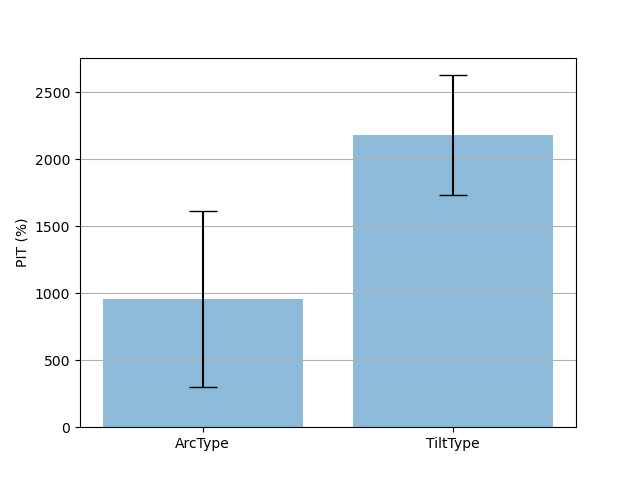
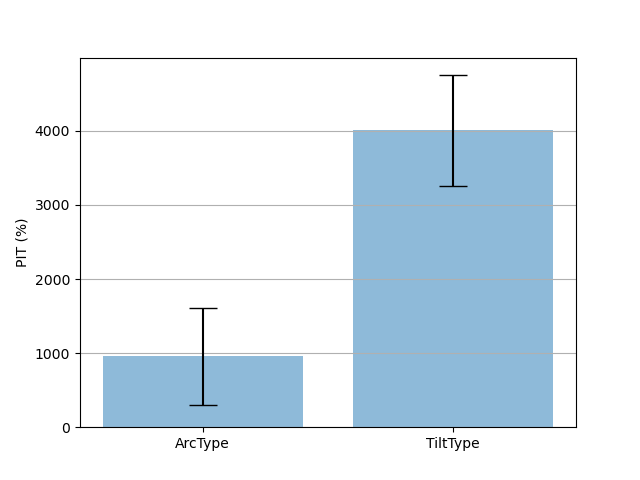
split wpm, fixed travel values

diff --git a/Assets/Scripts/Utils/metrics.py b/Assets/Scripts/Utils/metrics.py
@@ -9,11 +9,62 @@ import matplotlib.pyplot as plt
 import numpy as np
 
 
+def use(fn, *args, **kwargs):
+    def access(obj):
+        return getattr(obj, fn)(*args, **kwargs)
+
+    return access
+
+
+def truncate(f, digits=5):
+    return trunc(f * 10 ** digits) / 10 ** digits
+
+
+# https://stackabuse.com/levenshtein-distance-and-text-similarity-in-python/
+def levenshtein(seq1, seq2):
+    size_x = len(seq1) + 1
+    size_y = len(seq2) + 1
+    matrix = np.zeros((size_x, size_y))
+    for x in range(size_x):
+        matrix[x, 0] = x
+    for y in range(size_y):
+        matrix[0, y] = y
+
+    for x in range(1, size_x):
+        for y in range(1, size_y):
+            if seq1[x - 1] == seq2[y - 1]:
+                matrix[x, y] = min(
+                    matrix[x - 1, y] + 1,
+                    matrix[x - 1, y - 1],
+                    matrix[x, y - 1] + 1
+                )
+            else:
+                matrix[x, y] = min(
+                    matrix[x - 1, y] + 1,
+                    matrix[x - 1, y - 1] + 1,
+                    matrix[x, y - 1] + 1
+                )
+
+    return matrix[size_x - 1, size_y - 1]
+
+
+def error_rate(P, T):
+    return 100 * levenshtein(P, T) / max(len(P), len(T))
+
+
 class Layouts(Enum):
     SliderOnly = "SliderOnly"
     ArcType = "ArcType"
     TiltType = "TiltType"
     Raycast = "Raycast"
+
+
+def layout_name(l):
+    if isinstance(l, str):
+        return {Layouts.SliderOnly.value: 'DO NOT USE', Layouts.ArcType.value: Layouts.ArcType.value,
+                Layouts.TiltType.value: Layouts.TiltType.value, Layouts.Raycast.value: 'Controller Pointing'}[l]
+    return {Layouts.SliderOnly: 'DO NOT USE', Layouts.ArcType: Layouts.ArcType.value,
+                Layouts.TiltType: Layouts.TiltType.value, Layouts.Raycast: 'Controller Pointing'}[l]
 
 
 trial_files = {0: "trial-2020-07-16_02-36-27.yaml", 1: "trial-2020-07-16_02-46-22.yaml",
@@ -74,8 +125,8 @@ def merge_trials(*datas):
 
 
 arctype_x_range_size = 145 - 45
-tilttype_x_range_size = 12 - 5
-tilttype_z_range_size = 120 - 30
+tilttype_x_range_size = 30 - 5
+tilttype_z_range_size = 30 - -10
 
 
 def tilttype_pos(c: str):
@@ -94,7 +145,7 @@ def raycast_pos(c: str):
 
 
 def raycast_displacement(p, c, signed=False):
-    return ((a - b if signed else abs(a - b))for a, b in zip(raycast_pos(p), raycast_pos(c)))
+    return ((a - b if signed else abs(a - b)) for a, b in zip(raycast_pos(p), raycast_pos(c)))
 
 
 def arctype_bin(c: str):
@@ -236,27 +287,26 @@ def make_2d_point_cloud(data, axes):
 
 
 def make_wpm_bars(data):
-    layout_awpm = {k: v for k, v in data.layout_awpm.items() if k != Layouts.SliderOnly.value}
-    layout_wpm = {k: v for k, v in data.layout_wpm.items() if k != Layouts.SliderOnly.value}
-    awpm_data = layout_awpm.values()
-    awpm_means = [np.mean(v) for v in awpm_data]
-    wpm_data = layout_wpm.values()
-    wpm_means = [np.mean(v) for v in wpm_data]
-    awpm_std = [np.std(v) for v in awpm_data]
-    wpm_std = [np.std(v) for v in wpm_data]
-    ind = np.arange(len(awpm_data))  # the x locations for the groups
+    perfect_wpm = {k: v for k, v in data.layout_perfect_wpm.items() if k != Layouts.SliderOnly.value}
+    blind_wpm = {k: v for k, v in data.layout_blind_wpm.items() if k != Layouts.SliderOnly.value}
+    perfect_data = perfect_wpm.values()
+    perfect_means = [np.mean(v) for v in perfect_data]
+    blind_data = blind_wpm.values()
+    blind_means = [np.mean(v) for v in blind_data]
+    perfect_std = [np.std(v) for v in perfect_data]
+    blind_std = [np.std(v) for v in blind_data]
+    ind = np.arange(len(blind_data))  # the x locations for the groups
     width = 0.35  # the width of the bars: can also be len(x) sequence
 
-    p1 = plt.bar(ind, awpm_means, width, align='center')
-    p2 = plt.bar(ind, [a - b for a, b in zip(wpm_means, awpm_means)], width, align='center',
-                 bottom=awpm_means, yerr=wpm_std)
+    p1 = plt.bar(ind + width, perfect_means, width, align='center', yerr=perfect_std)
+    p2 = plt.bar(ind, blind_means, width, align='center', yerr=blind_std)
 
     plt.axes().yaxis.grid(True)  # raises an error?
 
-    plt.ylabel('(Accurate) Words per Minute')
+    plt.ylabel('WPM')
     # plt.title('Efficiency')
-    plt.xticks(ind, layout_awpm.keys())
-    plt.legend((p1[0], p2[0]), ('aWPM', 'WPM'))
+    plt.xticks(ind + width/2, list(map(layout_name, blind_wpm.keys())))
+    plt.legend((p1[0], p2[0]), ('Perfect', 'Blind'))
 
     plt.savefig('../../Results/Figures/stacked-wpm-awpm.png')
     plt.show()
@@ -284,17 +334,15 @@ def make_pit_bars(data):
     plt.savefig('../../Results/Figures/travel-by-interface-error-bars.png')
     plt.show()
 
-    pitMeans = [np.mean(data.layout_pit[v]) for v in
-                [Layouts.ArcType.value, Layouts.TiltType.value]]
-    pitStd = [np.std(data.layout_pit[v]) for v in
-              [Layouts.ArcType.value, Layouts.TiltType.value]]
+    pit_means = [np.mean(data.layout_pit[v]) for v in layouts]
+    pit_std = [np.std(data.layout_pit[v]) for v in layouts]
     # ind = np.arange(2)  # the x locations for the groups
     # width = 0.85  # the width of the bars: can also be len(x) sequence
 
     fig, ax = plt.subplots()
-    ax.bar(ind, pitMeans, yerr=pitStd, align='center', alpha=0.5, ecolor='black', capsize=10)
+    ax.bar(ind, pit_means, yerr=pit_std, align='center', alpha=0.5, ecolor='black', capsize=10)
     ax.set_ylabel('PIT (%)')
-    plt.xticks(ind, (Layouts.ArcType.value, Layouts.TiltType.value))
+    plt.xticks(ind, layouts)
     # ax.set_title('PIT by Interface')
     ax.yaxis.grid(True)
 
@@ -313,7 +361,7 @@ def make_duration_lines(data):
     fig.show()
 
 
-def make_error_pies(data):
+def make_error_bars(data):
     items = list()
     for layout, pairs in data.layout_blind_io.items():
         if layout == Layouts.SliderOnly.value:
@@ -334,14 +382,15 @@ def make_error_pies(data):
                 if p != o:
                     errors += 1
         items.append((layout, 100 * dipped / errors, 100 * off_by_one / errors))
-
+        # print((layout, dipped, off_by_one, errors))
     off_by_one_pcts = [obo for _, _, obo in items]
     dipped_pcts = [dip for _, dip, _ in items]
     ind = np.arange(3)  # the x locations for the groups
     width = 0.5  # the width of the bars: can also be len(x) sequence
 
     p1 = plt.bar(ind, dipped_pcts, width, align='center')[0]
-    p2 = plt.bar(ind, [a - b for a, b in zip(off_by_one_pcts, dipped_pcts)], width, align='center', bottom=dipped_pcts)[0]
+    p2 = plt.bar(ind, [a - b for a, b in zip(off_by_one_pcts, dipped_pcts)], width, align='center', bottom=dipped_pcts)[
+        0]
 
     plt.ylabel('Percent of Errors')
     # plt.title('Travel by Interface')
@@ -354,9 +403,9 @@ def make_error_pies(data):
 
 
 def get_data(skip_practice=True):
-    layout_pit, layout_wpm, layout_awpm = defaultdict(list), defaultdict(list), defaultdict(list)
-    layout_actual_travel, layout_ideal_travel, layout_durations = dict(), dict(), defaultdict(list)
-    layout_blind_io = defaultdict(list)
+    layout_pit, layout_blind_wpm, layout_blind_awpm, layout_perfect_wpm, layout_blind_io, layout_durations = \
+        (defaultdict(list) for _ in range(6))
+    layout_actual_travel, layout_ideal_travel, layout_error_rates = (dict() for _ in range(3))
     trials = get_all_trials()
     for trial in trials.values():
         for challenge in trial["trial"]:
@@ -368,8 +417,12 @@ def get_data(skip_practice=True):
             if challenge['type'] == 'Practice' and skip_practice:
                 continue
 
-            layout_wpm[challenge["layout"]].append(words_per_minute(challenge))
-            layout_awpm[challenge["layout"]].append(accurate_words_per_minutes(challenge))
+            if challenge['type'] == 'Blind':
+                layout_blind_wpm[challenge["layout"]].append(words_per_minute(challenge))
+                layout_blind_awpm[challenge["layout"]].append(accurate_words_per_minutes(challenge))
+
+            if challenge['type'] == 'Perfect':
+                layout_perfect_wpm[challenge["layout"]].append(words_per_minute(challenge))
 
             layout = challenge['layout']
             if layout == Layouts.ArcType.value:
@@ -385,12 +438,10 @@ def get_data(skip_practice=True):
 
     merged = merge_trials(*trials.values())
     layout_posses = {e.value: extract_layout_positions(merged, e.value) for e in Layouts}
-
-    header = ["Layout", "Avg X", "Std Dev X", "Avg Y", "Std Dev Y", "Avg Z", "Std Dev Z", "Avg WPM", "Std Dev WPM",
-              "Avg aWPM", "Std Dev aWPM",
-              # "Avg t", "Std Dev t",
-              "Avg Travel", "Std Dev Travel", "Avg PIT", "Std Dev PIT"]
-    rows = [header]
+    error_csv = [["Layout", "Avg Error", "Std Dev Error"]]
+    travel_csv = [["Layout", "Avg Travel", "Std Dev Travel", "Avg PIT", "Std Dev PIT"]]
+    main_csv = [["Layout", "Avg X", "Std Dev X", "Avg Y", "Std Dev Y", "Avg Z", "Std Dev Z", "Avg WPM", "Std Dev WPM",
+                 "Avg aWPM", "Std Dev aWPM"]]
     for layout in (e.value for e in Layouts):
         row = [layout]
         if layout in layout_posses:
@@ -407,26 +458,26 @@ def get_data(skip_practice=True):
         else:
             row.extend(('', '', '', '', '', ''))
 
-        wpm_data = reject_outliers(np.array(layout_wpm[layout]))
-        layout_wpm[layout] = wpm_data
+        wpm_data = reject_outliers(np.array(layout_blind_wpm[layout]))
+        layout_blind_wpm[layout] = wpm_data
         row.append(np.mean(wpm_data))
         row.append(np.std(wpm_data))
 
-        awpm_data = reject_outliers(np.array(layout_awpm[layout]))
-        layout_awpm[layout] = awpm_data
+        awpm_data = reject_outliers(np.array(layout_blind_awpm[layout]))
+        layout_blind_awpm[layout] = awpm_data
         row.append(np.mean(awpm_data))
         row.append(np.std(awpm_data))
 
         dur_data = reject_outliers(np.array(layout_durations[layout]))
         layout_durations[layout] = dur_data
-        # row.append(np.mean(dur_data))
-        # row.append(np.std(dur_data))
+
+        error_data = [error_rate(*p) for p in layout_blind_io[layout]]
+        layout_error_rates[layout] = error_data
+        error_csv.append([layout, np.mean(error_data), np.std(error_data)])
 
         if layout in layout_pit:
             actual_data = reject_outliers(np.array([t[0] for t in layout_pit[layout]]))
             layout_actual_travel[layout] = actual_data
-            row.append(np.mean(actual_data))
-            row.append(np.std(actual_data))
 
             ideal_data = reject_outliers(np.array([t[1] for t in layout_pit[layout]]))
             layout_ideal_travel[layout] = ideal_data
@@ -434,51 +485,79 @@ def get_data(skip_practice=True):
             pit_data = reject_outliers(np.array([100 * t[0] / t[1] for t in layout_pit[layout]]))
             layout_pit[layout] = pit_data
 
-            row.append(np.mean(pit_data))
-            row.append(np.std(pit_data))
-        else:
-            row.extend(('', '', '', ''))
+            travel_csv.append([layout, np.mean(actual_data), np.std(actual_data), np.mean(pit_data), np.std(pit_data)])
 
-        rows.append(row)
+        main_csv.append(row)
 
-    return Data(rows=rows, layout_pit=layout_pit, layout_wpm=layout_wpm, layout_awpm=layout_awpm,
-                layout_posses=layout_posses, layout_ideal_travel=layout_ideal_travel,
-                layout_actual_travel=layout_actual_travel, layout_durations=layout_durations,
-                layout_blind_io=layout_blind_io)
+    return Data(main_csv=main_csv, layout_pit=layout_pit, layout_blind_wpm=layout_blind_wpm,
+                layout_blind_awpm=layout_blind_awpm, layout_posses=layout_posses,
+                layout_ideal_travel=layout_ideal_travel, layout_actual_travel=layout_actual_travel,
+                layout_durations=layout_durations, layout_blind_io=layout_blind_io,
+                layout_error_rates=layout_error_rates, error_csv=error_csv, travel_csv=travel_csv,
+                layout_perfect_wpm=layout_perfect_wpm)
 
 
 class Data:
     def __init__(self, **kwargs):
-        self.rows = kwargs['rows']
+        self.main_csv = kwargs['main_csv']
+        self.travel_csv = kwargs['travel_csv']
+        self.error_csv = kwargs['error_csv']
         self.layout_pit = kwargs['layout_pit']
-        self.layout_wpm = kwargs['layout_wpm']
-        self.layout_awpm = kwargs['layout_awpm']
+        self.layout_blind_wpm = kwargs['layout_blind_wpm']
+        self.layout_perfect_wpm = kwargs['layout_perfect_wpm']
+        self.layout_blind_awpm = kwargs['layout_blind_awpm']
         self.layout_posses = kwargs['layout_posses']
         self.layout_actual_travel = kwargs['layout_actual_travel']
         self.layout_ideal_travel = kwargs['layout_ideal_travel']
         self.layout_durations = kwargs['layout_durations']
         self.layout_blind_io = kwargs['layout_blind_io']
-        for k, v in kwargs.items():
-            self.__dict__[k] = v
+        self.layout_error_rates = kwargs['layout_error_rates']
 
 
-def csv_rows():
-    return get_data().rows
-
-
-def write_csv(truncate=8):
-    with open('../../Results/extracted_data.csv', 'w', newline='') as csvfile:
-        rows = [[(trunc((10**truncate) * x) / (10**truncate) if isinstance(x, float) else x) for x in row] for row in csv_rows()]
+def write_csv(name, rows, digits=2):
+    with open('../../Results/' + name + '.csv', 'w', newline='') as csvfile:
+        rows = [[(truncate(x, digits=digits) if isinstance(x, float) else x) for x in row] for row in rows]
         csv.writer(csvfile).writerows(rows)
 
 
 if __name__ == '__main__':
     data = get_data()
     make_point_cloud(data)
-    # make_wpm_bars(data)
-    # make_2d_point_cloud(data, [0, 2])
-    # make_2d_point_cloud(data, [1, 2])
+    make_2d_point_cloud(data, [0, 2])
+    make_2d_point_cloud(data, [1, 2])
+
+    make_wpm_bars(data)
     make_pit_bars(data)
-    make_error_pies(data)
-    write_csv(truncate=5)
     # make_duration_lines(data)  # broken
+
+    make_error_bars(data)
+
+    write_csv('main', data.main_csv, digits=2)
+    write_csv('travels', data.travel_csv, digits=2)
+    write_csv('errors', data.error_csv, digits=2)
+
+    merged = merge_trials(*[get_trial(n) for n in range(3)])['trial']
+    prompts = list()
+    for challenge in merged:
+        if 'command' in challenge:
+            continue
+        prompts.append(challenge['challenge']['prompt'])
+
+    chars_per_prompt = list(map(len, prompts))
+
+    print('chars per prompt', np.mean(chars_per_prompt), np.std(chars_per_prompt))
+
+    words_per_prompt = list(map(len, map(use('split'), prompts)))
+
+    print('words per prompt', np.mean(words_per_prompt), np.std(words_per_prompt))
+
+    chars = [defaultdict(int) for _ in range(6)]
+    for prompt in prompts:
+        for word in prompt.split():
+            for i in range(min(len(word), len(chars))):
+                chars[i][word[i]] += 1
+
+
+# split wpm for blind and perfect, no awpm
+# update ranges, regenerate all
+# rename raycast
